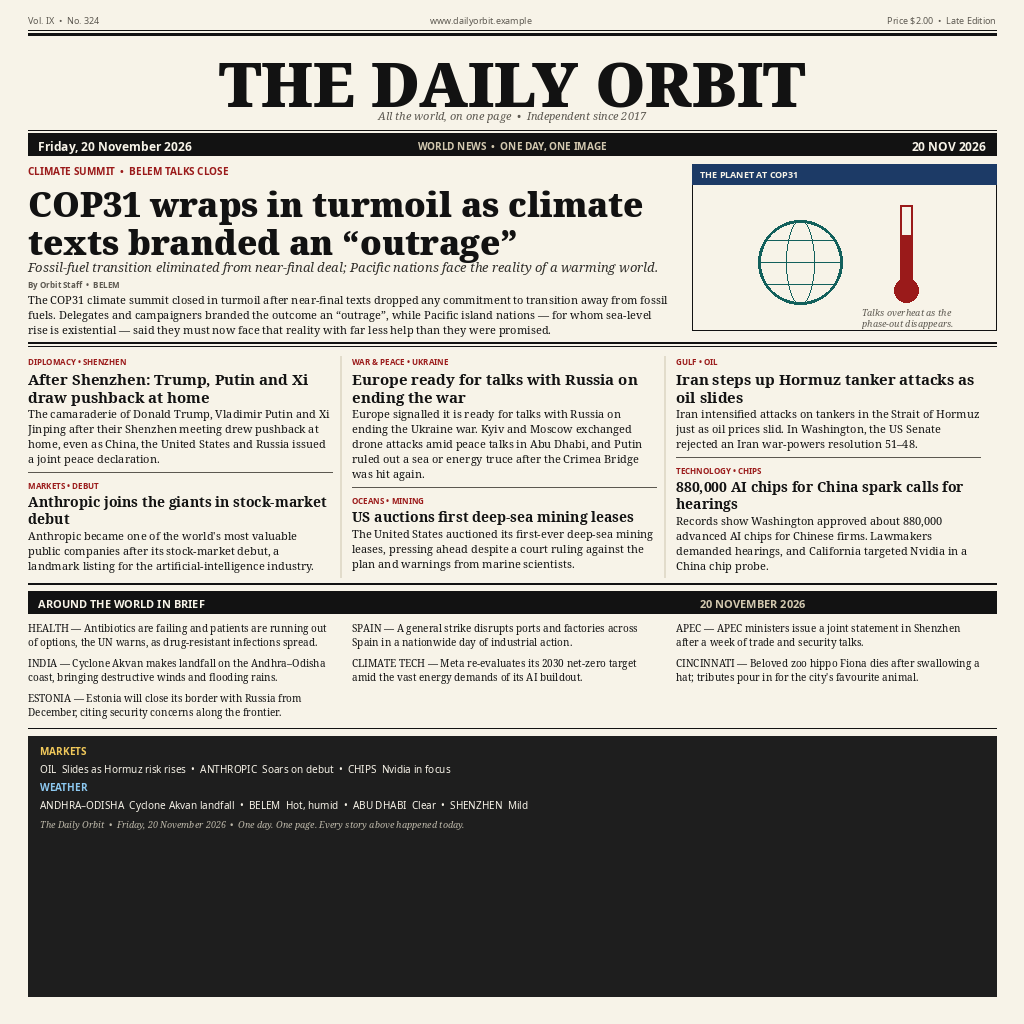
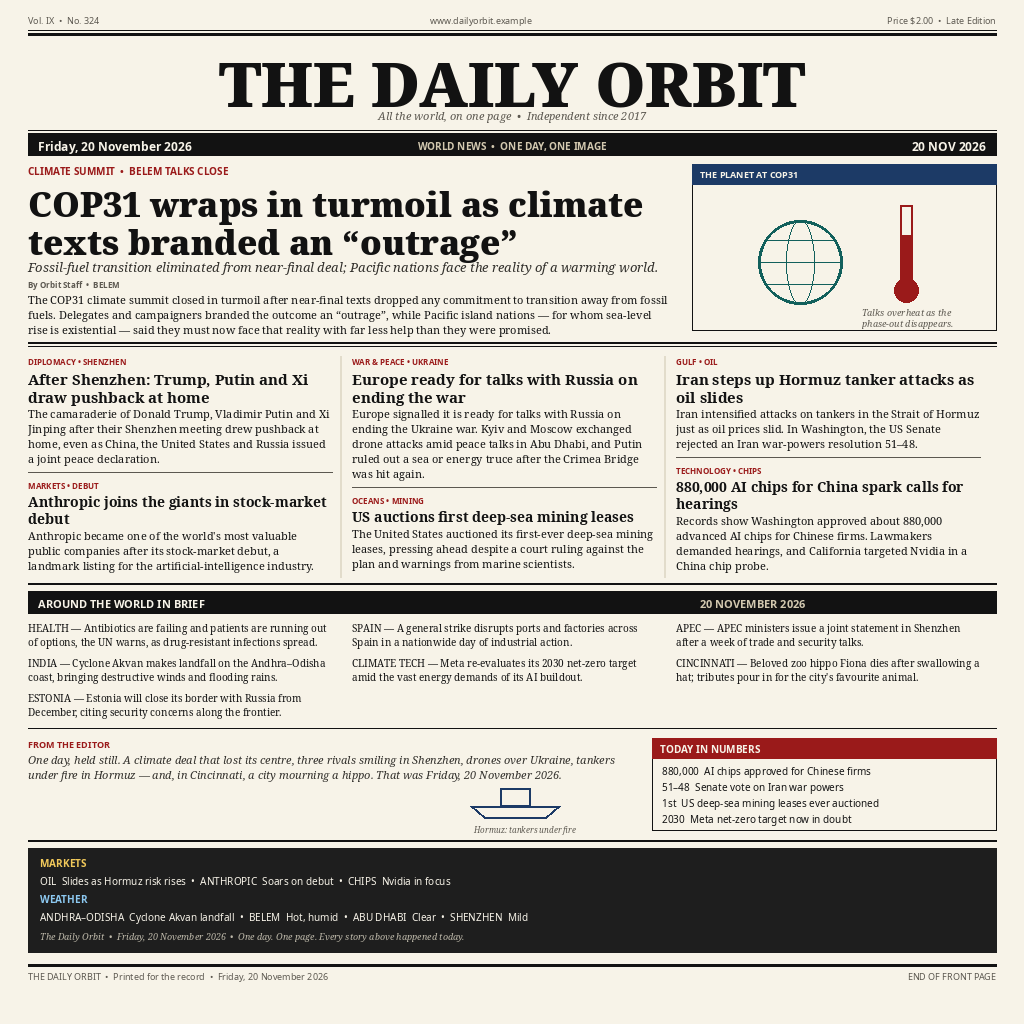
Improve layout: compact ticker, editor note, numbers panel and ship illustration

Changed region(s): [[0.0, 0.7188, 1.0, 1.0]]

diff --git a/draw.py b/draw.py
@@ -253,10 +253,46 @@ def main():
         brief_bottom = max(brief_bottom, byy)
     y = brief_bottom + 2
     rule(d, y, thick=1)
+    y += 10
+
+    # ---- editor's note + today in numbers (fills the foot of the page) ----
+    note_w = 600
+    d.text((28, y), "FROM THE EDITOR", font=F(SANS_BOLD, 9), fill=RED)
+    ny = y + 14
+    ny = para(d, 28, ny,
+              "One day, held still. A climate deal that lost its centre, "
+              "three rivals smiling in Shenzhen, drones over Ukraine, tankers "
+              "under fire in Hormuz \u2014 and, in Cincinnati, a city mourning "
+              "a hippo. That was Friday, 20 November 2026.",
+              F(SERIF_IT, 11), note_w, 15, fill=(50, 48, 44))
+    # simple ship icon beside the note
+    sx, sy = 470, ny + 6
+    d.polygon([(sx, sy + 18), (sx + 90, sy + 18), (sx + 76, sy + 30),
+               (sx + 14, sy + 30)], outline=BLUE, width=2)
+    d.rectangle([sx + 30, sy, sx + 60, sy + 18], outline=BLUE, width=2)
+    d.text((sx + 4, sy + 36), "Hormuz: tankers under fire",
+           font=F(SERIF_IT, 8), fill=GREY)
+    # numbers panel on the right
+    px0 = 652
+    d.rectangle([px0, y, 996, y + 92], outline=INK, width=1)
+    d.rectangle([px0, y, 996, y + 20], fill=RED)
+    d.text((px0 + 8, y + 4), "TODAY IN NUMBERS", font=F(SANS_BOLD, 10), fill=PAPER)
+    nums = [
+        "880,000  AI chips approved for Chinese firms",
+        "51\u201348  Senate vote on Iran war powers",
+        "1st  US deep-sea mining leases ever auctioned",
+        "2030  Meta net-zero target now in doubt",
+    ]
+    nyy = y + 26
+    for n in nums:
+        d.text((px0 + 10, nyy), n, font=F(SANS_REG, 10), fill=INK)
+        nyy += 16
+    y = max(ny, y + 92) + 10
+    rule(d, y, thick=2)
     y += 8
 
-    # ---- markets & weather ticker ----
-    d.rectangle([28, y, 996, 1024 - 28], fill=(30, 30, 30))
+    # ---- markets & weather ticker (compact strip, not a void) ----
+    d.rectangle([28, y, 996, y + 104], fill=(30, 30, 30))
     d.text((40, y + 8), "MARKETS", font=F(SANS_BOLD, 10), fill=(240, 200, 90))
     d.text((40, y + 26),
            "OIL  Slides as Hormuz risk rises  •  ANTHROPIC  Soars on debut  •  "
@@ -271,6 +307,13 @@ def main():
            "The Daily Orbit  •  Friday, 20 November 2026  •  One day. One page. "
            "Every story above happened today.",
            font=F(SERIF_IT, 9), fill=(190, 185, 170))
+    y += 116
+    rule(d, y, thick=3)
+    d.text((28, y + 6), "THE DAILY ORBIT  •  Printed for the record  •  "
+           "Friday, 20 November 2026", font=F(SANS_REG, 9), fill=GREY)
+    end = "END OF FRONT PAGE"
+    d.text((996 - d.textlength(end, font=F(SANS_REG, 9)), y + 6), end,
+           font=F(SANS_REG, 9), fill=GREY)
 
     out = os.path.join(os.path.dirname(os.path.abspath(__file__)), "entry.png")
     img.save(out, format="PNG", optimize=True)
